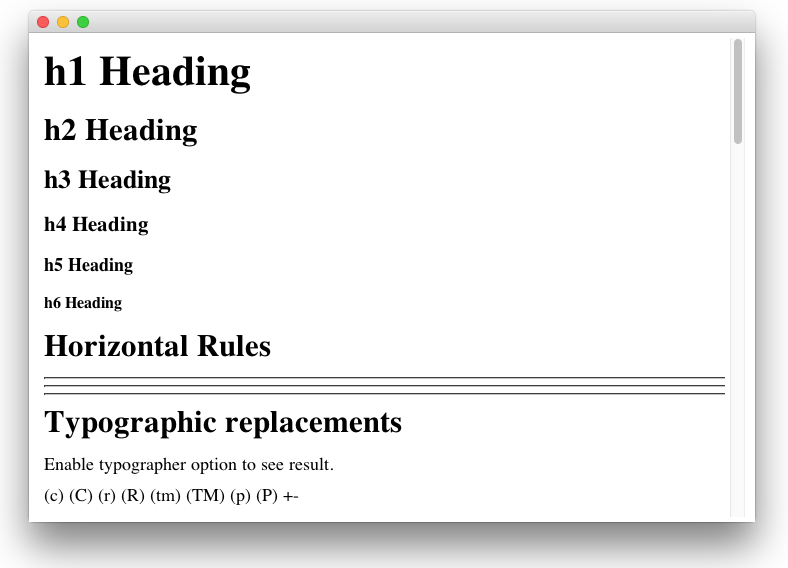
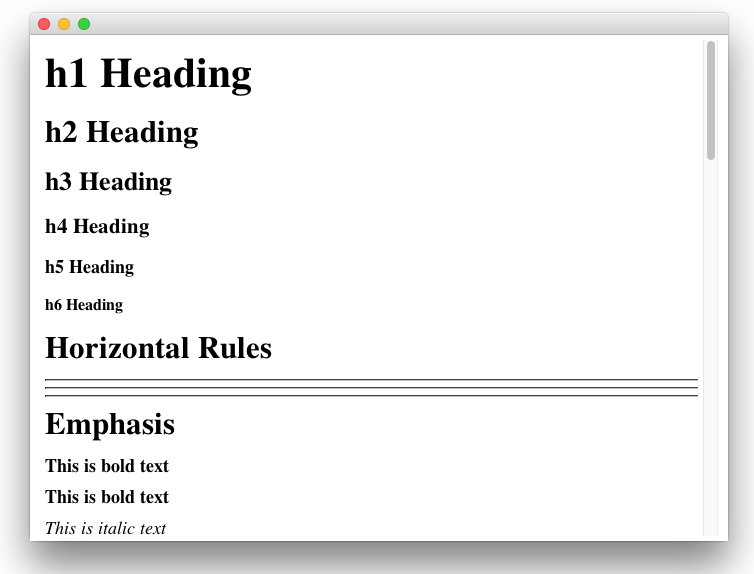
Revise demopage1.md and .jar file

diff --git a/resources/demopage1.md b/resources/demopage1.md
@@ -15,13 +15,6 @@ ___
 
 ***
 
-
-## Typographic replacements
-
-Enable typographer option to see result.
-
-(c) (C) (r) (R) (tm) (TM) (p) (P) +-
-
 ## Emphasis
 
 **This is bold text**
